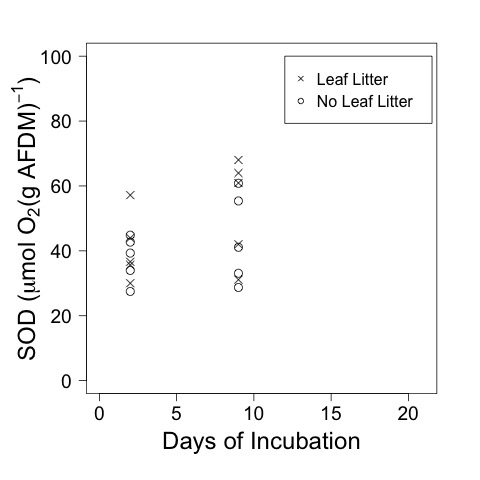
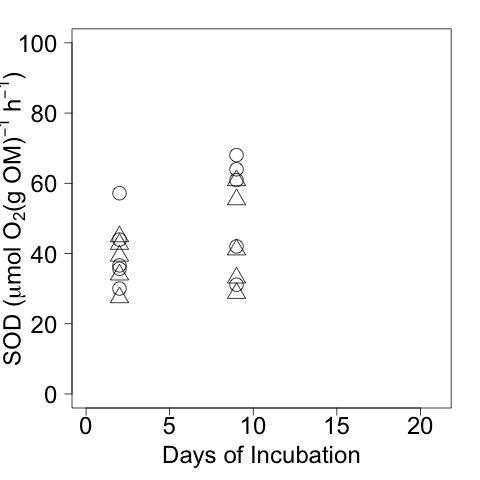
figure modifications for MS

diff --git a/lab_notebook/analysis/CPOM_Flux_SOD_Analysis.md b/lab_notebook/analysis/CPOM_Flux_SOD_Analysis.md
@@ -297,11 +297,11 @@ in umol / (g OM) / h
 
     # Plot of OM normalized SOD by days of incubation (for ASB talk)
     par(las = 1, mar = c(5, 5, 2, 2))
-    plot(sod.OM ~ days.elap, data = sod, subset = CPOM == "yes", ylim = c(0, 50), xlab = "Days of Incubation", ylab = expression(paste("SOD (", mu, "mol (g OM)"^{-1}, " h"^{-1}, ")")), pch = 1, col = "grey4", cex.axis = 1.5, cex.lab = 1.5, cex = 2)
+    plot(sod.OM ~ days.elap, data = sod, subset = CPOM == "yes", ylim = c(0, 100), xlab = " ", ylab = expression(paste("SOD (", mu, "mol (g OM)"^{-1}, " h"^{-1}, ")")), pch = 1, col = "grey4", cex.axis = 1.5, cex.lab = 1.5, cex = 2)
     points(sod.mean.CPOM ~ unique(days.elap), data = sod, type = "b", pch = 16, col = "black", cex = 2.5)
     points(sod.OM ~ days.elap, data = sod, subset = CPOM == "no", pch = 2, col = "grey4", cex = 2)
     points(sod.mean.ctl ~ unique(days.elap), data = sod, type = "b", pch = 17, col = "black", cex = 2.5)
-    legend(10, 50, c("Leaf Litter ", "No Leaf Litter "), pch = c(16, 17), cex = 1)
+    legend(10, 100, c("Leaf Litter ", "No Leaf Litter "), pch = c(16, 17), cex = 1)
     dev.copy(jpeg, "./output/plots/SOD_OM_by_days.jpg")
     dev.off()
 

diff --git a/lab_notebook/analysis/leached_litter_Spring_SOD_Analysis.md b/lab_notebook/analysis/leached_litter_Spring_SOD_Analysis.md
@@ -329,8 +329,8 @@ days.elap:treatment 0.00005058 0.00005058     1  8.0003  0.4149 0.53753
     plot(SOD.OM * 1000 ~ days.elap, data = sod.om, subset = treatment == "LS", ylim = c(0, 100), xlim = c(0, 21), xlab = "Days of Incubation", ylab = expression(paste("SOD (",mu, "mol ", O[2], "(g OM)"^{-1}, " h"^{-1}, ")")), pch = 1, cex.axis = 1.2, cex.lab = 1.5, cex = 2.5, cex.axis = 1.5, cex.lab = 1.5)
     points(SOD.OM * 1000 ~ days.elap, data = sod.om, subset = treatment == "S", pch = 2, cex = 2.5)
     #legend(12, 100, c("Leaf Litter", "No Leaf Litter"), pch = c(4, 1), cex = 1)
-    #dev.copy(jpeg, "./output/plots/leached_litter_SOD.OM_by_days.jpg")
-    #dev.off()
+    dev.copy(jpeg, "./output/plots/leached_litter_SOD.OM_by_days.jpg")
+    dev.off()
 
 
 
